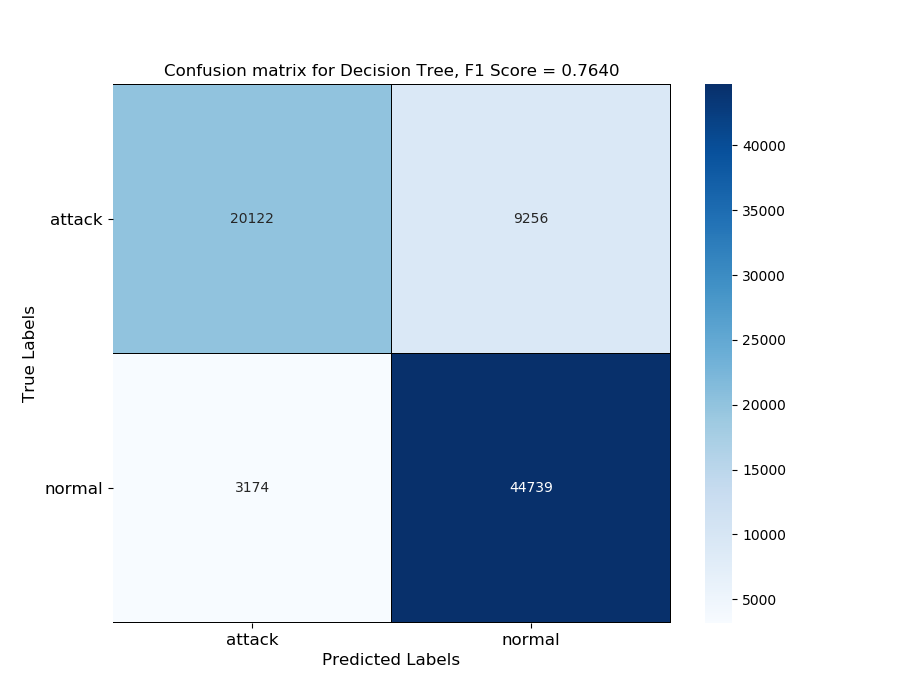
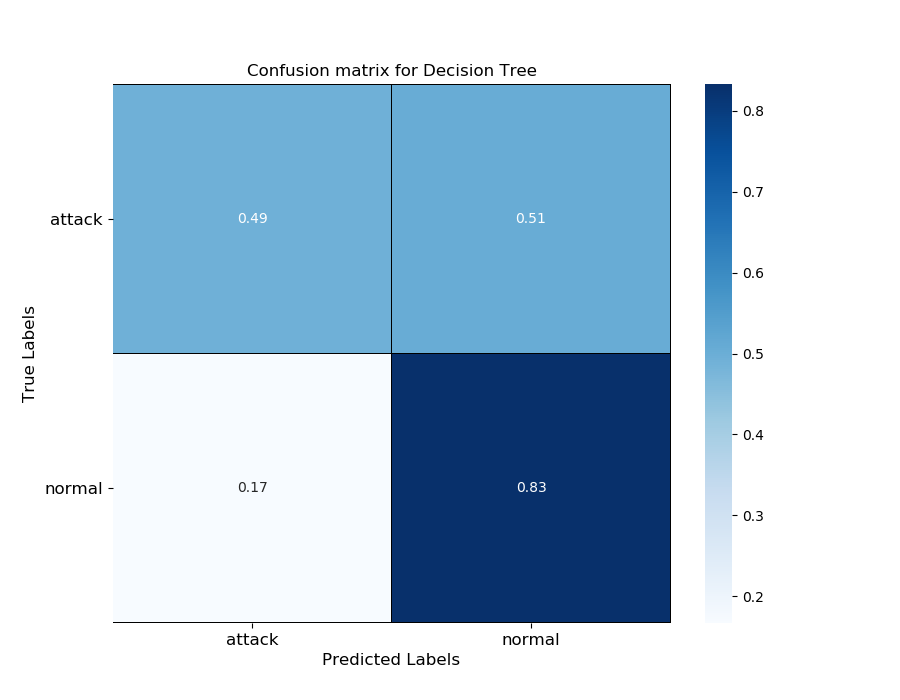
Normalized confusion matrices

diff --git a/src/graph_makin_machine.py b/src/graph_makin_machine.py
@@ -184,28 +184,22 @@ def plot_unseen(model_dict, unseen, data):
     plt.title('Percent of Unseen Attacks Correctly Identified (Total = 4,022)')
     plt.savefig("graphs/unseen_predictions.png")
 
-    
-
 
 def confusion_matrix_(y_test, y_pred, k):
     labels = np.unique(y_test)
 
-    print(y_pred)
-    f1 = f1_score(y_test, y_pred, pos_label="attack")
-
     # get confusion matrix
     cm = confusion_matrix(y_test, y_pred)
-    # cm = cm.astype('float')/cm.sum(axis=1)[:, np.newaxis]
+    cm = cm.astype('float')/cm.sum(axis=1)[:, np.newaxis]
 
     fig, ax = plt.subplots(figsize=(9, 7))
-    sn.heatmap(cm, annot=True, ax=ax, fmt='g', cmap='Blues', linewidths=0.25, linecolor='black')
+    sn.heatmap(cm, annot=True, ax=ax, fmt='.2g', cmap='Blues', linewidths=0.25, linecolor='black')
     ax.set_xlabel('Predicted Labels', fontsize='large')
     ax.set_ylabel('True Labels', fontsize='large')
-    ax.set_title("Confusion matrix for %s, F1 Score = %.4f" % (k, f1), fontsize='large')
+    ax.set_title("Confusion matrix for %s" % k, fontsize='large')
     ax.xaxis.set_ticklabels(labels, rotation='horizontal', fontsize='large')
     ax.yaxis.set_ticklabels(labels, rotation='horizontal', fontsize='large')
     plt.savefig("graphs/%s_confusion_matrix.png" % k)
-
 
     
 def ROC_curve(fpr_tpr, auc):
@@ -226,11 +220,9 @@ def main():
 
     model_dict = best_models()
     data = get_data()
-    unseen = read_labels(data)
-    plot_unseen(model_dict, unseen, data)
-    # plot_ROC(data, model_dict)
-    
-
+    # unseen = read_labels(data)
+    # plot_unseen(model_dict, unseen, data)
+    plot_ROC(data, model_dict)
 
 
 if __name__ == "__main__":
